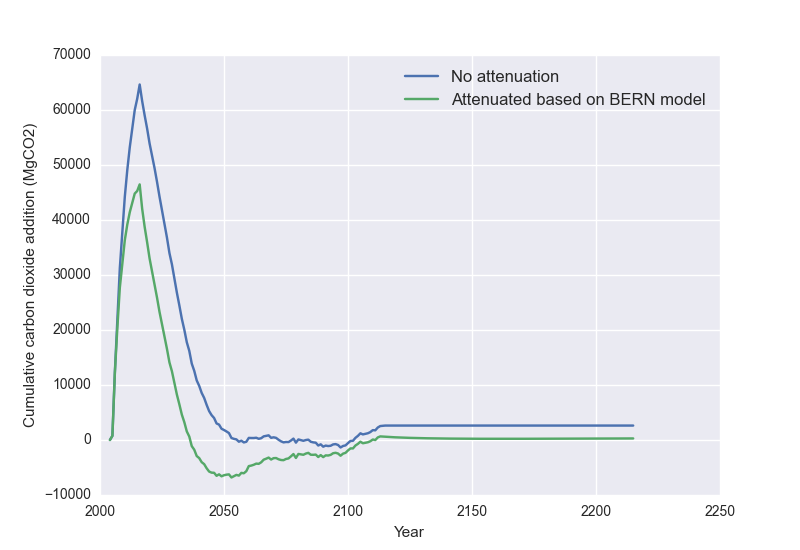
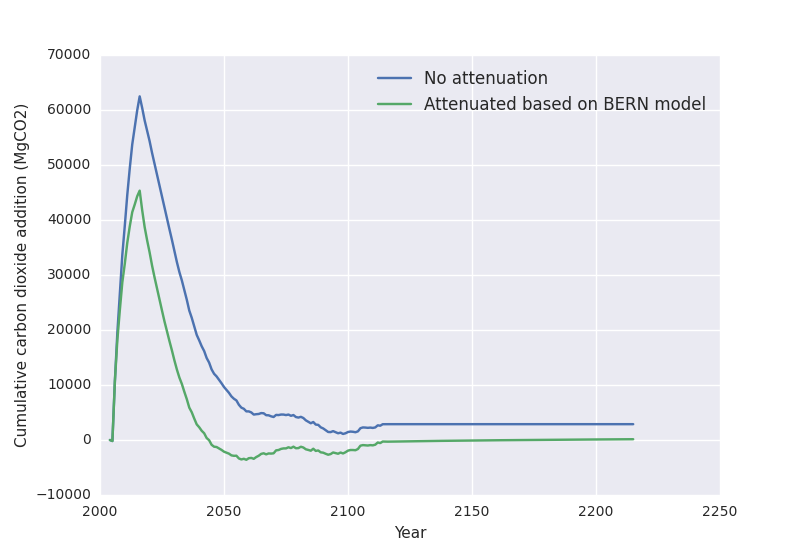
Adjusted fire() function to make aboveground C losses less catastrophic.

diff --git a/dynamics.py b/dynamics.py
@@ -132,7 +132,7 @@ def c_plot(plot_object, w_c_array, w_l_array, w_s_array, w_f_array, w_r_array, w
 def unharvested_infestation(param_dictionary, state_dictionary):
     """All foliage transferred to litter, all stems transferred to coarse fuels,
     roots transferred to SOM after microbial efficiency adjustment,
-    'LAI' and 'interception' are independently calculated at every time step, so arbitrarily set to zero here
+    'LAI' and 'interception' are independently re-calculated at every time step, so arbitrarily set to zero here
     """
     microbial_efficiency = param_dictionary['microbial_efficiency'][0]
     state_dictionary['age'].append(0)
@@ -149,7 +149,7 @@ def unharvested_infestation(param_dictionary, state_dictionary):
 def harvested_infestation(param_dictionary, state_dictionary):
     """All foliage transferred to litter, all stems removed for harvest,
     roots transferred to SOM after microbial efficiency adjustment,
-    'LAI' and 'interception' are independently calculated at every time step, so arbitrarily set to zero here
+    'LAI' and 'interception' are independently re-calculated at every time step, so arbitrarily set to zero here
     """
     microbial_efficiency = param_dictionary['microbial_efficiency'][0]
     state_dictionary['age'].append(0)
@@ -165,16 +165,17 @@ def harvested_infestation(param_dictionary, state_dictionary):
 
 
 def fire(param_dictionary, state_dictionary):
-    """All aboveground live, litter, coarse disappear, roots transferred to SOM after microbial efficiency adjustment
-    'LAI' and 'interception' are independently calculated at every time step, so arbitrarily set to zero here
+    """Half of litter and coarse fuels disappear, all foliage disappears, half of live stems transferred to coarse
+    fuels, roots transferred to SOM after microbial efficiency adjustment.
+    'LAI' and 'interception' are independently re-calculated at every time step, so arbitrarily set to zero here
     """
     microbial_efficiency = param_dictionary['microbial_efficiency'][0]
     state_dictionary['age'].append(0)
     state_dictionary['w_f'].append(0.1)
     state_dictionary['w_s'].append(0.1)
     state_dictionary['w_r'].append(0.1)
-    state_dictionary['w_l'].append(0.1)
-    state_dictionary['w_c'].append(0.1)
+    state_dictionary['w_l'].append(state_dictionary['w_l'][-1] * 0.5)
+    state_dictionary['w_c'].append(state_dictionary['w_c'][-1] * 0.5 + state_dictionary['w_s'][-2])
     state_dictionary['w_o'].append(state_dictionary['w_o'][-1] + (state_dictionary['w_r'][-2] * microbial_efficiency))
     state_dictionary['LAI'].append(0)
     state_dictionary['interception'].append(0)
@@ -274,7 +275,7 @@ def land(iteration, tot_iterations, detail=False):
                     infestations[j] += 1
                 else:
                     # if no infestation, proceed normally with stochastic fire events or 3-PG growth step
-                    fire_risk = (1.0/fire_frequency) * (((local_states['w_l'][-1] * 0.1) + local_states['w_c'][-1])/20)
+                    fire_risk = (1.0/fire_frequency) * (((local_states['w_l'][-1] * 1) + (local_states['w_c'][-1] * 1))/30)
                     rand = random()
                     if rand <= fire_risk:
                         age = 0
@@ -461,11 +462,12 @@ while True:
         plt.text(40, -50, "Fire", horizontalalignment='center', verticalalignment='center')
         plt.text(80, -50, "Beetles", horizontalalignment='center', verticalalignment='center')
         plt.xlim((0, simulation_length))
-        plt.show()
+        plt.savefig('stand.png')
+        plt.close()
 
     elif command == 'land':
         land(1, 1, detail=True)
-        plt.savefig('test.png')
+        plt.savefig('land.png')
 
     elif command == 'uncert':
         import pandas as pd
